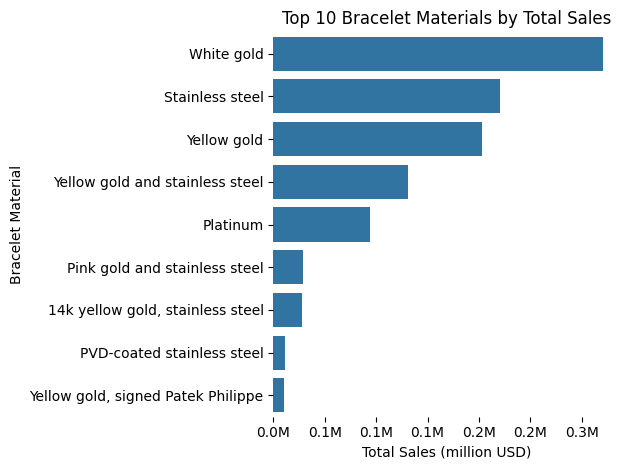
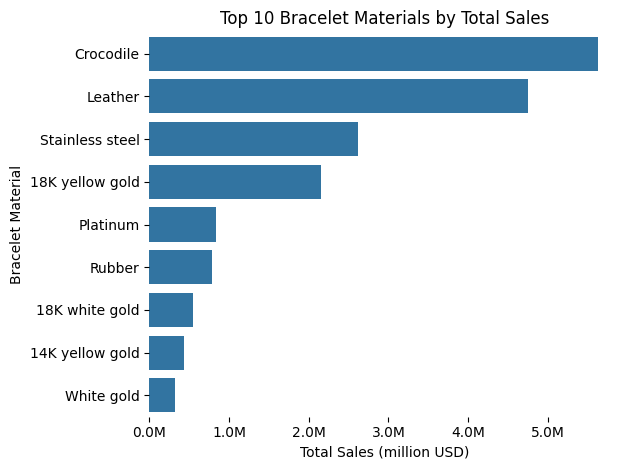
modified html

Changed region(s): [[0.0302, 0.0, 0.9651, 0.983], [0.7841, 0.1489, 0.8444, 0.2383], [0.9349, 0.0894, 0.9651, 0.1489]]

diff --git a/docs/index.html b/docs/index.html
@@ -344,38 +344,41 @@
                     </div>
                     <div class="text-section">
                         <!-- The analysis paragraph below the case size chart -->
-                        <p class="analysis-text"> 
+                        <p class="analysis-text">
                             <h3>Case Size Dominance</h3>
-                            <p>The <strong>40mm</strong> case size leads total sales with nearly <strong>4M USD</strong> in total sales, significantly outpacing all other case sizes. This dominance indicates a strong preference among collectors and buyers for watches with a more versatile, classic size that appeals to a broad range of wrist sizes.</p>
-                            <p>Other popular case sizes include <strong>42mm</strong> and <strong>37mm</strong>, with total sales reaching approximately <strong>2.6M USD</strong> and <strong>2.3M USD</strong>, respectively. These sizes also reflect the balance between modern trends favoring larger watches and the traditional appeal of more moderately sized timepieces.</p>
-                    
+                            <p>The <strong>40mm</strong> case size dominated total sales, reaching nearly <strong>4 million USD</strong> in total sales, significantly outpacing all other case sizes. This dominance indicated a strong preference among collectors and buyers for watches with a versatile, classic size that appealed to a broad range of wrist sizes.</p>
+                            <p>Other popular case sizes included <strong>42mm</strong> and <strong>37mm</strong>, with total sales reaching approximately <strong>2.8 million USD</strong> and <strong>2.5 million USD</strong>, respectively. These sizes reflected a balance between modern trends favoring slightly larger watches and the enduring appeal of more traditionally sized timepieces.</p>
+                        
                             <h4>Key Reasons for the Dominance of 40mm:</h4>
                             <ul>
-                                <li><strong>Versatility and Comfort:</strong> The 40mm case size is widely regarded as the ideal watch size for a range of wrist sizes, making it a popular choice among both men and women. It is large enough to be legible and modern without being too oversized.</li>
-                                <li><strong>Iconic Models:</strong> Many iconic watch models, such as the <strong>Rolex Submariner</strong> and <strong>Cosmograph Daytona</strong>, are produced in the 40mm size, driving its popularity at auctions. These highly sought-after models contribute significantly to the overall sales figures for this case size.</li>
-                                <li><strong>Historical Preference:</strong> Historically, 40mm has been a standard size for luxury watches, offering a perfect blend of elegance and practicality. This long-standing popularity continues to influence buyer preferences today.</li>
+                                <li><strong>Versatility and Comfort:</strong> The 40mm case size was widely regarded as an ideal watch size for a range of wrist sizes, making it a popular choice among both men and women. It was large enough to be legible and modern without being oversized.</li>
+                                <li><strong>Iconic Models:</strong> Many iconic watch models, such as the <strong>Rolex Submariner</strong> and <strong>Cosmograph Daytona</strong>, were produced in the 40mm size, driving its popularity at auctions. These highly sought-after models likely contributed significantly to the overall sales figures for this case size.</li>
+                                <li><strong>Historical Preference:</strong> Historically, 40mm had been a standard size for luxury watches, offering a perfect blend of elegance and practicality. This long-standing popularity continued to influence buyer preferences.</li>
                             </ul>
-                    
+                        
                             <h3>Variety in Case Sizes</h3>
-                            <p>The top 10 case sizes show a clear preference for mid-sized to large watches. While the top three sizes (40mm, 42mm, and 37mm) dominate the chart, there is still significant interest in sizes ranging from <strong>36mm</strong> to <strong>41mm</strong>, each of which accounts for a notable share of total sales.</p>
-                            <p>Smaller sizes such as <strong>36.5mm</strong> and <strong>35mm</strong> still hold relevance in the luxury watch market, often appealing to buyers who prefer more classic or vintage-inspired designs. These sizes also tend to be favored by collectors looking for understated elegance rather than bold, oversized watches.</p>
-                    
+                            <p>The chart showed a clear preference for mid-sized watches, with sizes ranging from 35mm to 42mm dominating the top sales figures. While 40mm led by a significant margin, there was substantial interest in sizes just above and below it, such as 42mm, 39mm, and 37mm.</p>
+                            <p>Interestingly, smaller sizes such as <strong>35mm</strong> and <strong>36.5mm</strong> still held relevance in the luxury watch market, likely appealing to buyers who preferred more classic or vintage-inspired designs, or possibly representing women's watch models.</p>
+                        
                             <h3>Insights on the Luxury Watch Market</h3>
-                            <p>The data reflects a balanced market that caters to both modern tastes for larger watches and more traditional preferences for moderately sized timepieces. The enduring popularity of 40mm watches demonstrates a classic appeal that transcends temporary trends, while the presence of 42mm and larger sizes reflects modern consumers' interest in bold, statement-making designs.</p>
+                            <p>The data reflected a market that primarily favored moderately sized timepieces, with a clear preference for watches between 37mm and 42mm. This range suggested a balance between modern tastes and traditional aesthetics.</p>
                             <ul>
-                                <li><strong>Modern Trends Favor Larger Sizes:</strong> The demand for case sizes like <strong>42mm</strong> and <strong>41mm</strong> highlights the growing interest in larger, sportier designs that appeal to a more casual, adventurous clientele.</li>
-                                <li><strong>Classic Sizes Remain in Demand:</strong> While modern buyers may lean towards larger watches, classic sizes such as <strong>37mm</strong> and <strong>36mm</strong> are still highly desirable, especially among collectors and those seeking vintage models.</li>
-                                <li><strong>Continued Relevance of Traditional Sizes:</strong> Even smaller sizes like <strong>35mm</strong> remain relevant, often driven by vintage market demand and a preference for watches with a more understated, timeless appeal.</li>
+                                <li><strong>Dominance of Classic Sizes:</strong> The strong performance of 40mm, 42mm, and 37mm watches demonstrated the enduring appeal of classic and versatile sizes that suit a wide range of preferences and wrist sizes.</li>
+                                <li><strong>Gradual Shift Towards Larger Sizes:</strong> While not extreme, the presence of 41mm and 42mm in the top-selling sizes indicated a slight trend towards larger watches, possibly reflecting changing consumer preferences or the influence of sports and diving watch designs.</li>
+                                <li><strong>Continued Relevance of Smaller Sizes:</strong> The inclusion of sizes from 35mm to 37.5mm in the chart highlighted a persistent market for more traditionally sized watches, likely driven by vintage-inspired designs and preferences for understated elegance.</li>
                             </ul>
-                    
+                        
                             <h3>Potential Growth Areas</h3>
                             <p>Looking ahead, several trends may shape future sales by case size:</p>
                             <ul>
-                                <li><strong>Increasing Popularity of Larger Watches:</strong> As modern consumers continue to favor larger watches, sizes like <strong>42mm</strong> and above may continue to see strong sales. However, buyers looking for sportier, more adventurous designs are likely to focus on these case sizes.</li>
-                                <li><strong>Continued Demand for Classic Sizes:</strong> Case sizes between <strong>37mm</strong> and <strong>40mm</strong> are likely to remain highly sought after, especially as more brands reissue vintage models or produce timepieces that appeal to traditional watch enthusiasts.</li>
-                                <li><strong>Growth in Smaller Case Sizes:</strong> As the vintage market continues to grow, the demand for watches with case sizes below <strong>37mm</strong> may also increase, particularly among collectors who prioritize classic designs over modern trends.</li>
+                                <li><strong>Continued Dominance of 40mm:</strong> Given its overwhelming lead in sales, the 40mm size was likely to remain a staple in the luxury watch market, appealing to a wide range of consumers.</li>
+                                <li><strong>Growing Interest in 42mm:</strong> The strong showing of 42mm suggested potential for growth in slightly larger watches that offer a more prominent wrist presence without being overly large.</li>
+                                <li><strong>Resurgence of Traditional Sizes:</strong> The significant sales of 37mm and 38mm watches indicated a continued appreciation for more traditionally sized timepieces, which could see increased demand as vintage-inspired designs gain popularity.</li>
+                                <li><strong>Niche Opportunities in Diverse Sizes:</strong> The presence of sizes ranging from 35mm to 42mm suggested opportunities for watchmakers to cater to specific tastes and demographics across a variety of case sizes.</li>
                             </ul>
                         </p>
+                        
+                        
                     </div>
                     
 
@@ -443,37 +446,38 @@
                         <!-- The analysis paragraph below the bracelet materials chart -->
                         <p class="analysis-text"> 
                             <h3>Bracelet Material Dominance</h3>
-                            <p>The chart shows a significant dominance of <strong>Crocodile</strong> leather bracelets, leading total sales with nearly <strong>5.6M USD</strong>. This is followed by <strong>Leather</strong> bracelets, which contribute approximately <strong>4.7M USD</strong> in total sales. The strong performance of leather-based materials reflects the continued demand for high-quality, luxurious bracelet materials in the watch market.</p>
-                            <p>Other materials such as <strong>18K yellow gold Rolex Oyster riveted bracelet</strong> and <strong>Rubber</strong> account for smaller, but still notable, shares of the total sales, with the 18K yellow gold bracelet reaching nearly <strong>1M USD</strong>.</p>
-                    
-                            <h4>Key Reasons for the Dominance of Crocodile and Leather:</h4>
+                            <p>There was a significant dominance of <strong>Crocodile</strong> leather bracelets, leading total sales with over <strong>5.5M USD</strong>. This is followed closely by <strong>Leather</strong> bracelets, 
+                                which contribute approximately <strong>5M USD</strong> in total sales. <strong>Stainless steel</strong> ranks third, with sales reaching about <strong>2.5M USD</strong>. The strong performance of these materials reflects the diverse preferences in the luxury watch market, balancing traditional luxury with practicality.</p>
+                            <p>Other materials such as <strong>18K yellow gold</strong> and <strong>Platinum</strong> account for smaller, but still notable, shares of the total sales, with 18K yellow gold reaching nearly <strong>2M USD</strong>.</p>
+                            
+                            <h4>Key Reasons for the Dominance of Crocodile, Leather, and Stainless Steel:</h4>
                             <ul>
                                 <li><strong>Luxury and Craftsmanship:</strong> Crocodile and leather straps are highly prized for their comfort, durability, and luxurious appearance. These materials offer a refined, elegant look that complements high-end watches, making them highly desirable among collectors.</li>
-                                <li><strong>Tradition and Versatility:</strong> Leather straps, especially those made from exotic materials like crocodile skin, have been traditional choices for luxury watches. They add a timeless aesthetic that is versatile enough to work with both classic and modern watch designs.</li>
-                                <li><strong>Customizability and Exclusivity:</strong> Crocodile leather straps are often custom-made to fit specific watches, enhancing the overall value of the timepiece. This exclusivity and attention to detail make these straps a popular choice among high-end buyers.</li>
+                                <li><strong>Versatility and Practicality:</strong> Stainless steel bracelets offer durability and a modern aesthetic, appealing to those who prefer a more robust, everyday wear option. This material bridges the gap between luxury and practicality.</li>
+                                <li><strong>Traditional Appeal:</strong> Leather straps, especially those made from exotic materials like crocodile skin, have been traditional choices for luxury watches. They add a timeless aesthetic that works well with both classic and modern watch designs.</li>
                             </ul>
-                            <p>While crocodile leather leads the market, other materials such as <strong>rubber</strong> and <strong>gold bracelets</strong> also have significant market presence. These materials often appeal to buyers looking for durability or more sporty, casual styles.</p>
-                    
+                            <p>While crocodile leather leads the market, the strong presence of stainless steel and precious metals like 18K yellow gold and platinum indicates a diverse market catering to various preferences and needs.</p>
+                            
                             <h3>Variety in Bracelet Materials</h3>
-                            <p>While leather dominates the market, there is still a variety of materials represented among the top 10. Notably, <strong>Rubber</strong> bracelets cater to the luxury sport watch market, providing a durable yet comfortable option that is also more resistant to wear. The presence of <strong>18K yellow gold Rolex Oyster riveted bracelets</strong> reflects the demand for precious metal bracelets, especially for classic models like the Rolex.</p>
-                            <p>This variety of bracelet materials highlights the importance of both tradition and innovation in the luxury watch market, with buyers seeking out materials that match their personal style and the intended use of the watch.</p>
-                    
+                            <p>The top 10 bracelet materials showcase a wide range of options. Notable entries include <strong>Rubber</strong> bracelets, which cater to the luxury sport watch market, and various grades of gold (18K yellow, 18K white, and 14K yellow). This variety highlights the importance of both tradition and innovation in the luxury watch market, with buyers seeking out materials that match their personal style and the intended use of the watch.</p>
+                            
                             <h3>Insights on the Luxury Watch Market</h3>
-                            <p>The dominance of leather and crocodile straps reflects the luxury market’s continued preference for classic, high-end materials. However, the presence of gold and rubber bracelets shows that buyers are also looking for more unique or practical options depending on their lifestyle and preferences.</p>
+                            <p>The distribution of bracelet materials reflects a balanced market catering to different consumer preferences:</p>
                             <ul>
-                                <li><strong>Classic and Timeless Materials Lead:</strong> Leather and crocodile straps are viewed as classic, timeless choices that provide a luxurious and refined look. This is especially true for vintage or dress watches, which are often paired with these types of straps to enhance their elegance.</li>
-                                <li><strong>Practicality and Innovation:</strong> The presence of rubber straps highlights the market’s appreciation for practical, sportier options, especially for watches intended for everyday wear or adventure. These materials offer durability while maintaining a level of luxury.</li>
-                                <li><strong>Precious Metal Bracelets Still in Demand:</strong> Gold bracelets, like the Rolex Oyster riveted bracelet, remain highly sought after, especially for collectors of iconic models. These bracelets add significant value to a watch, contributing to their strong showing in the auction market.</li>
+                                <li><strong>Classic and Timeless Materials Lead:</strong> Crocodile and leather straps remain top choices, reflecting the market's appreciation for classic, luxurious materials.</li>
+                                <li><strong>Practicality and Durability:</strong> The strong showing of stainless steel indicates a significant demand for watches that balance luxury with everyday wearability and durability.</li>
+                                <li><strong>Precious Metals Maintain Significance:</strong> The presence of various gold types and platinum in the top 10 demonstrates the continued appeal of precious metal bracelets for high-end collectors and as investment pieces.</li>
                             </ul>
-                    
+                            
                             <h3>Potential Growth Areas</h3>
-                            <p>Looking ahead, several bracelet materials could see increased demand:</p>
+                            <p>Looking ahead, several trends could shape the bracelet material market:</p>
                             <ul>
-                                <li><strong>Rubber Straps:</strong> With the continued rise of luxury sport watches, rubber straps may continue to grow in popularity due to their durability and comfort. These straps appeal to buyers who want a versatile watch that can withstand more rugged use.</li>
-                                <li><strong>Innovative Material Combinations:</strong> As watchmakers experiment with hybrid materials or combinations of precious metals and durable materials (e.g., gold and rubber), there may be an increase in demand for unique, avant-garde bracelets that offer both luxury and functionality.</li>
-                                <li><strong>Customization and Exclusivity:</strong> High-end buyers may continue to seek out customized leather straps made from exotic materials, increasing demand for bespoke bracelet options. This trend could lead to more limited-edition straps that are tailored to specific high-end models.</li>
+                                <li><strong>Innovative Stainless Steel Designs:</strong> Given its strong performance, we might see more innovative designs and finishes in stainless steel bracelets, combining practicality with luxury aesthetics.</li>
+                                <li><strong>Sustainable Alternatives:</strong> With growing environmental awareness, there could be increased interest in sustainable alternatives to traditional exotic leathers, potentially impacting the crocodile leather market.</li>
+                                <li><strong>Hybrid Materials:</strong> Combinations of materials, such as steel with gold accents or rubber with precious metal elements, might gain popularity as they offer both luxury and functionality.</li>
+                                <li><strong>Customization and Limited Editions:</strong> The market might see growth in customizable bracelet options or limited-edition materials, catering to collectors seeking unique pieces.</li>
                             </ul>
-                        </p>
+                            </p>
                     </div>
                     
                 </div>
